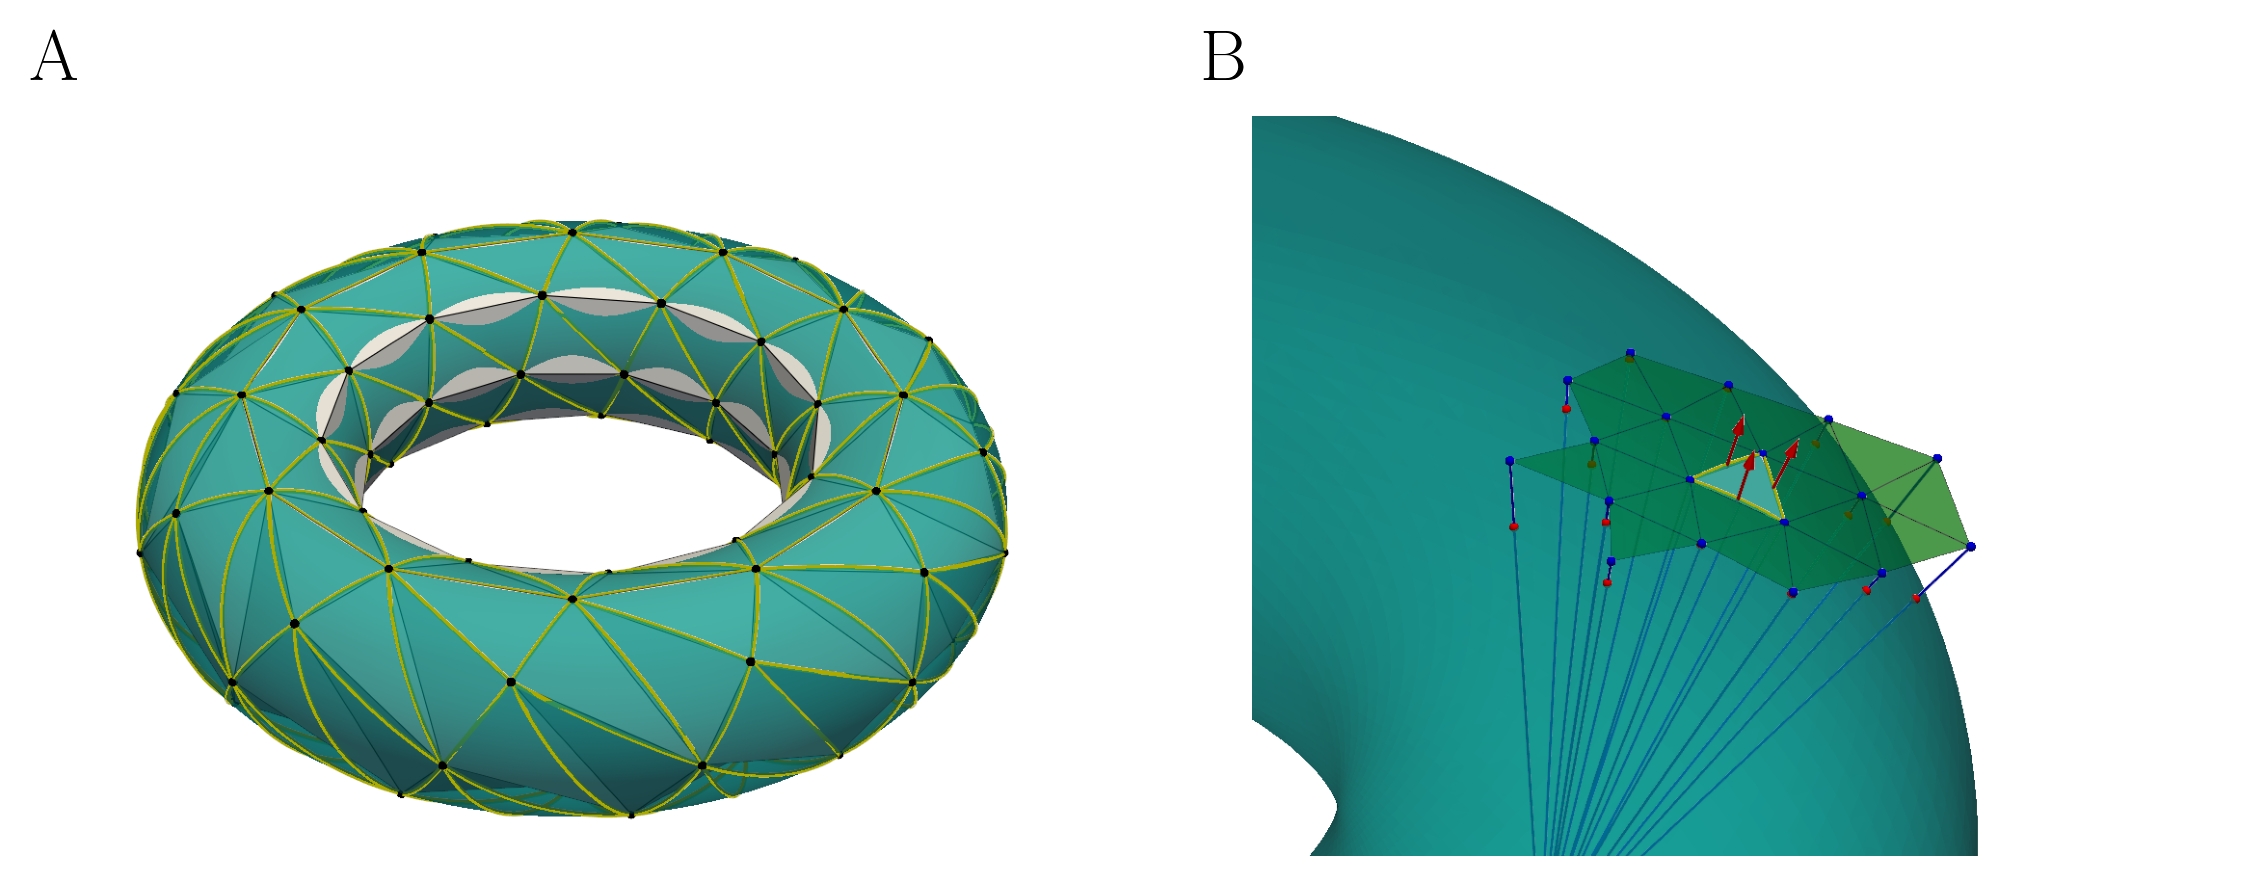
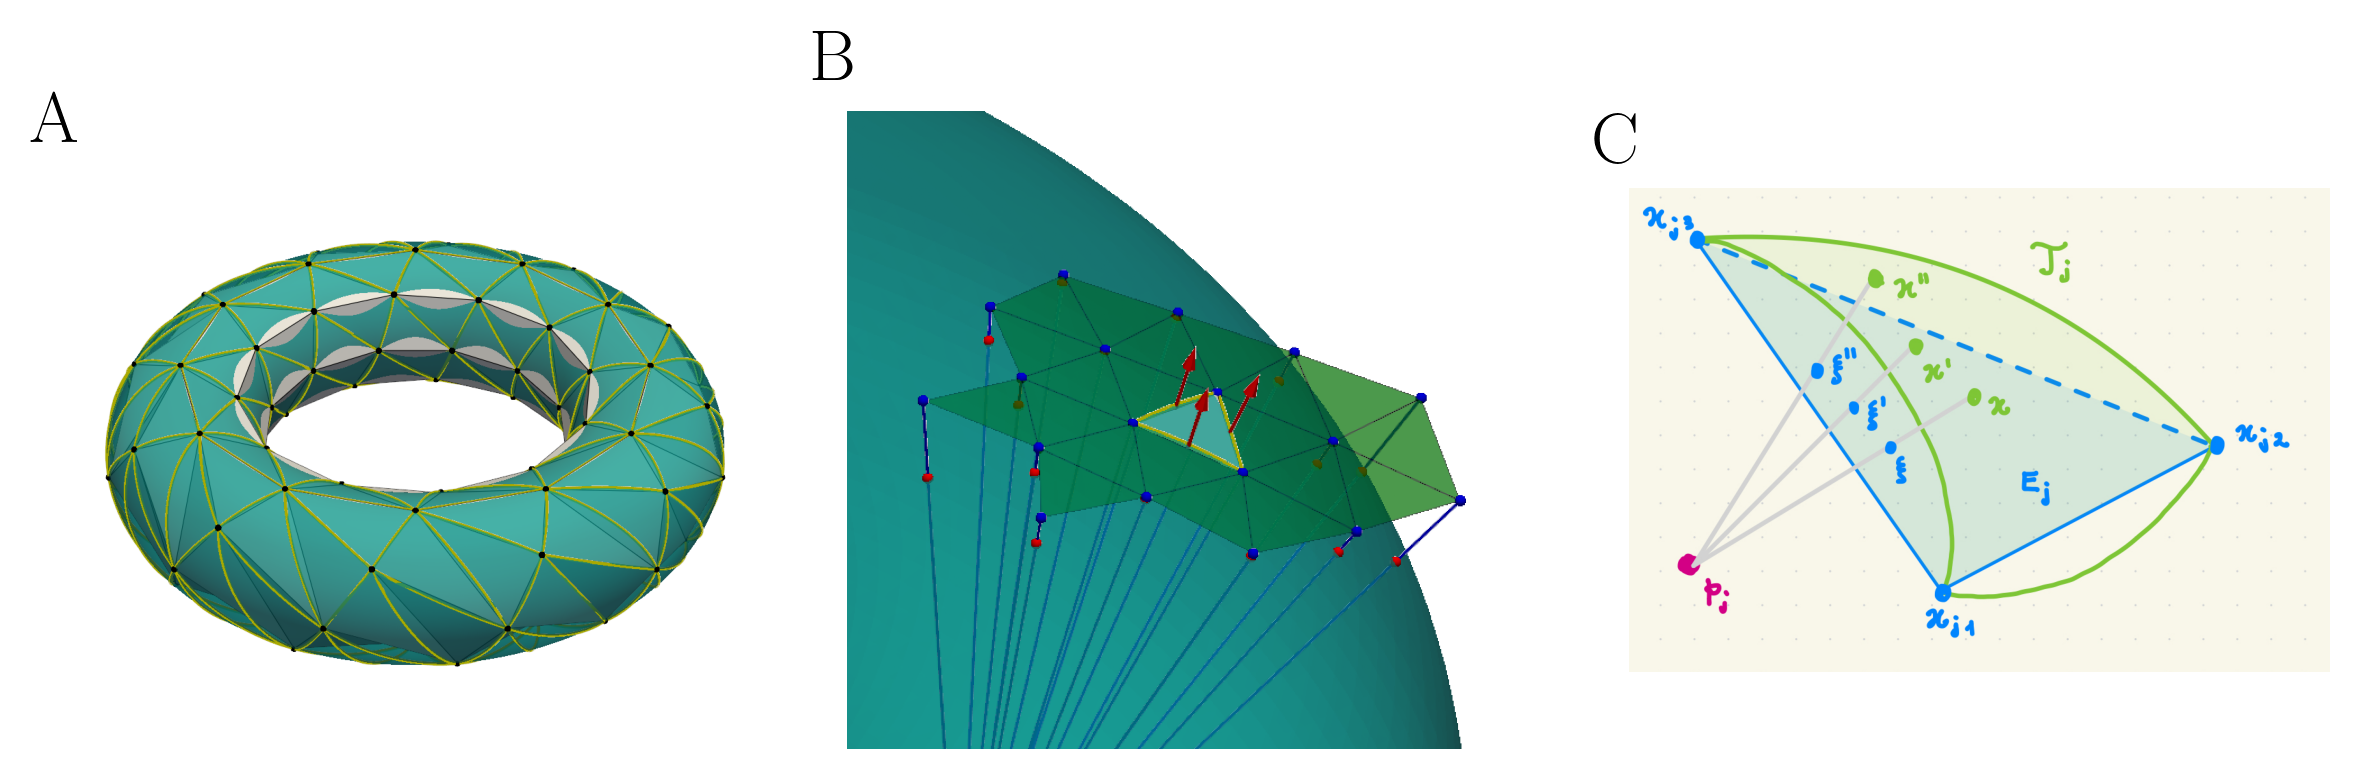
stencil projection figure, added panel

diff --git a/figures/torus/stencil_figure.py b/figures/torus/stencil_figure.py
@@ -15,7 +15,7 @@ FILE = "../media/partition_and_projection"
 figsize = (8, 3)
 fig = plt.figure("Stencil Projection", figsize=figsize)
 
-grid = gs.GridSpec(1, 2)
+grid = gs.GridSpec(1, 3)
 
 #############
 #
@@ -41,8 +41,22 @@ img_file = "media/projection_stencil.png"
 with open(img_file, "rb") as file:
     projection_image = plt.imread(file)
 
-ax_projection.imshow(projection_image)
+ax_projection.imshow(projection_image[100:-100, 200:-200])
 ax_projection.axis("off")
+
+#############
+#
+# DA sketch
+#
+#############
+
+ax_sketch = fig.add_subplot(grid[0, 2])
+img_file = "media/da_sketch.jpg"
+with open(img_file, "rb") as file:
+    sketch = plt.imread(file)
+
+ax_sketch.imshow(sketch[140:900, 200:1300])
+ax_sketch.axis("off")
 
 #############
 #
@@ -61,6 +75,7 @@ for ax, label in zip(
     [
         ax_partition,
         ax_projection,
+        ax_sketch,
     ],
     "ABCDEFGH",
 ):
